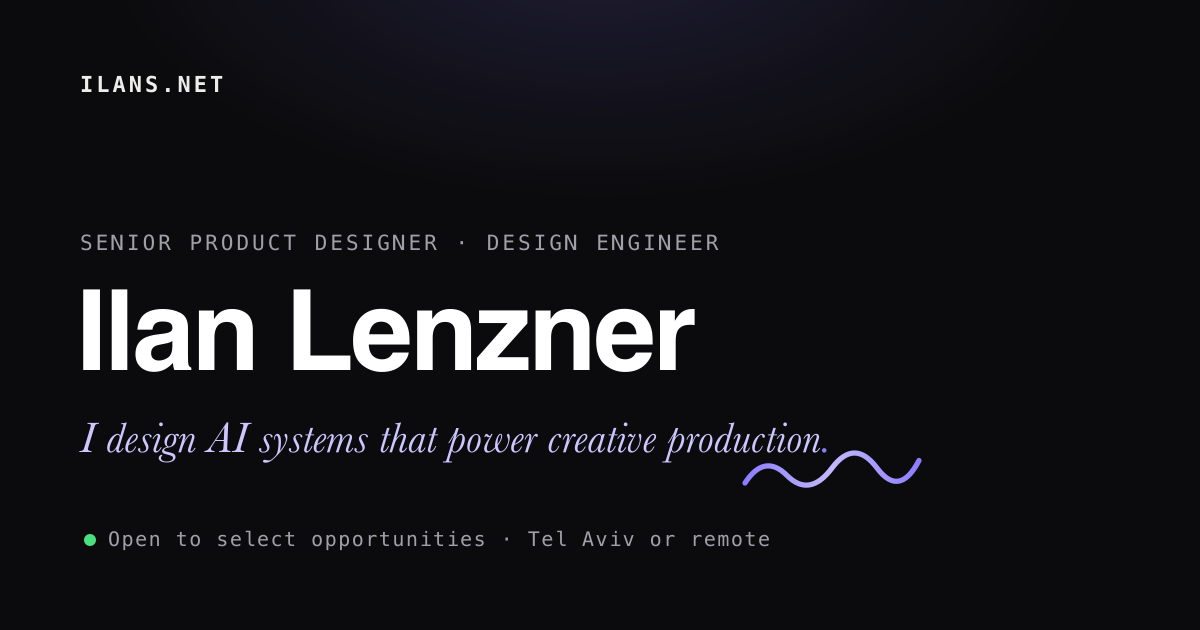
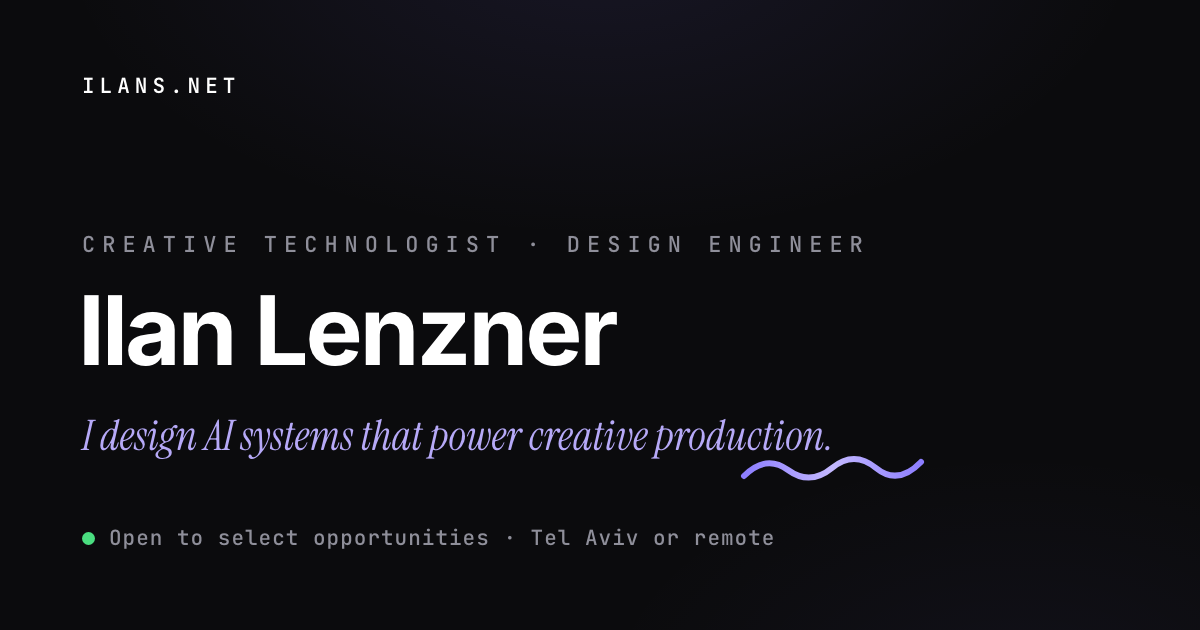
Reposition: Creative Technologist & Design Engineer
Title, meta/OG/Twitter tags, JSON-LD jobTitle, hero label, and a
regenerated OG card. Sett job history unchanged (factual). Matches
the CV v3 headline so site, CV, and LinkedIn tell one story.

diff --git a/index.html b/index.html
@@ -5,15 +5,15 @@
     <meta name="viewport" content="width=device-width, initial-scale=1.0">
     <meta name="theme-color" content="#0b0b0d" id="themeColorMeta">
     <script>(function(){try{if(localStorage.getItem('theme')==='light'){document.documentElement.setAttribute('data-theme','light');document.getElementById('themeColorMeta').setAttribute('content','#faf9f7');}}catch(e){}})();</script>
-    <title>Ilan Lenzner | Senior Product Designer & Design Engineer</title>
-    <meta name="description" content="Ilan Lenzner - Senior Product Designer & Design Engineer in Tel Aviv. I design and ship AI-powered products end-to-end, used daily by 100+ creatives.">
+    <title>Ilan Lenzner | Creative Technologist & Design Engineer</title>
+    <meta name="description" content="Ilan Lenzner - Creative Technologist & Design Engineer in Tel Aviv. I design and ship AI-powered products end-to-end, used daily by 100+ creatives.">
     <meta name="author" content="Ilan Lenzner">
     <meta name="robots" content="index, follow, max-image-preview:large, max-snippet:-1, max-video-preview:-1">
     <meta name="keywords" content="Ilan Lenzner, product designer, design engineer, AI tools, Tel Aviv, UX, design systems, creative technologist">
 
     <!-- Open Graph -->
-    <meta property="og:title" content="Ilan Lenzner | Senior Product Designer & Design Engineer">
-    <meta property="og:description" content="Senior Product Designer & Design Engineer who designs and ships AI-powered products end-to-end. I think in systems, design in Figma, and ship in code.">
+    <meta property="og:title" content="Ilan Lenzner | Creative Technologist & Design Engineer">
+    <meta property="og:description" content="Creative Technologist & Design Engineer who designs and ships AI-powered products end-to-end. I think in systems, design in Figma, and ship in code.">
     <meta property="og:image" content="https://ilans.net/images/og-card.png">
     <meta property="og:image:width" content="1200">
     <meta property="og:image:height" content="630">
@@ -22,8 +22,8 @@
 
     <!-- Twitter Card -->
     <meta name="twitter:card" content="summary_large_image">
-    <meta name="twitter:title" content="Ilan Lenzner | Senior Product Designer & Design Engineer">
-    <meta name="twitter:description" content="Senior Product Designer & Design Engineer who designs and ships AI-powered products end-to-end.">
+    <meta name="twitter:title" content="Ilan Lenzner | Creative Technologist & Design Engineer">
+    <meta name="twitter:description" content="Creative Technologist & Design Engineer who designs and ships AI-powered products end-to-end.">
     <meta name="twitter:image" content="https://ilans.net/images/og-card.png">
 
     <!-- Canonical -->
@@ -47,8 +47,8 @@
                 "familyName": "Lenzner",
                 "url": "https://ilans.net/",
                 "image": "https://ilans.net/images/portrait.jpg",
-                "jobTitle": "Senior Product Designer & Design Engineer",
-                "description": "Senior Product Designer and Design Engineer based in Tel Aviv who designs and ships AI-powered products end-to-end - from autonomous ad pipelines to AI tools used daily by 100+ creatives.",
+                "jobTitle": "Creative Technologist & Design Engineer",
+                "description": "Creative Technologist and Design Engineer based in Tel Aviv who designs and ships AI-powered products end-to-end - from autonomous ad pipelines to AI tools used daily by 100+ creatives.",
                 "email": "ilan@ilans.net",
                 "address": {
                     "@type": "PostalAddress",
@@ -68,7 +68,7 @@
                 "@id": "https://ilans.net/#website",
                 "url": "https://ilans.net/",
                 "name": "Ilan Lenzner",
-                "description": "Portfolio of Ilan Lenzner - Senior Product Designer & Design Engineer.",
+                "description": "Portfolio of Ilan Lenzner - Creative Technologist & Design Engineer.",
                 "inLanguage": "en",
                 "publisher": { "@id": "https://ilans.net/#ilan" }
             },
@@ -76,7 +76,7 @@
                 "@type": "ProfilePage",
                 "@id": "https://ilans.net/#profile",
                 "url": "https://ilans.net/",
-                "name": "Ilan Lenzner | Senior Product Designer & Design Engineer",
+                "name": "Ilan Lenzner | Creative Technologist & Design Engineer",
                 "isPartOf": { "@id": "https://ilans.net/#website" },
                 "about": { "@id": "https://ilans.net/#ilan" },
                 "inLanguage": "en"
@@ -122,7 +122,7 @@
     <div class="container">
         <div class="hero-content">
             <p class="status-pill"><span class="pulse" aria-hidden="true"></span>Open to select opportunities</p>
-            <p class="hero-label">Senior Product Designer <span class="dot">·</span> Design Engineer <span class="dot">·</span> <span class="loc">Tel Aviv</span></p>
+            <p class="hero-label">Creative Technologist <span class="dot">·</span> Design Engineer <span class="dot">·</span> <span class="loc">Tel Aviv</span></p>
             <h1>I design AI systems that power <em>creative production</em><span class="accent-dot">.</span><span class="hero-wavy-wrap" aria-hidden="true"><svg width="92" height="34" viewBox="0 0 120 40" fill="none"><path id="heroWaveThick" d="M2 30 Q15 10, 30 25 Q45 40, 60 20 Q75 0, 90 20 Q105 40, 118 15" stroke="url(#heroWaveGradThick)" stroke-width="7" stroke-linecap="round" fill="none"/><path id="heroWaveThin" d="M2 30 Q15 10, 30 25 Q45 40, 60 20 Q75 0, 90 20 Q105 40, 118 15" stroke="url(#heroWaveGrad)" stroke-width="3" stroke-linecap="round" fill="none"/><g id="heroWavePen" opacity="0"><g transform="scale(2) translate(-7,-14.3) rotate(-30,8,8)"><path d="M12 3l1.2-1.2a1.5 1.5 0 012.1 2.1L7.5 11.7a3 3 0 01-1.3.8L4 13l.5-2.2a3 3 0 01.8-1.3L12 3z" stroke="url(#heroWaveGrad)" stroke-width="0.8" stroke-linecap="round" fill="none"/></g></g><defs><linearGradient id="heroWaveGrad" x1="0" y1="0" x2="120" y2="0" gradientUnits="userSpaceOnUse"><stop offset="0%" stop-color="#8a7bff"/><stop offset="50%" stop-color="#c4b9ff"/><stop offset="100%" stop-color="#8a7bff"/></linearGradient><linearGradient id="heroWaveGradThick" x1="0" y1="0" x2="120" y2="0" gradientUnits="userSpaceOnUse"><stop offset="0%" stop-color="#8a7bff" stop-opacity="0"/><stop offset="50%" stop-color="#b9afff" stop-opacity="0.45"/><stop offset="100%" stop-color="#8a7bff" stop-opacity="0.85"/></linearGradient></defs></svg></span></h1>
             <p class="hero-desc">I design and build systems that turn manual creative workflows into scalable automation - from autonomous ad pipelines to AI tools used daily by <strong>100+ team members</strong>. My focus lives where AI meets creative production.</p>
             <div class="hero-links">
